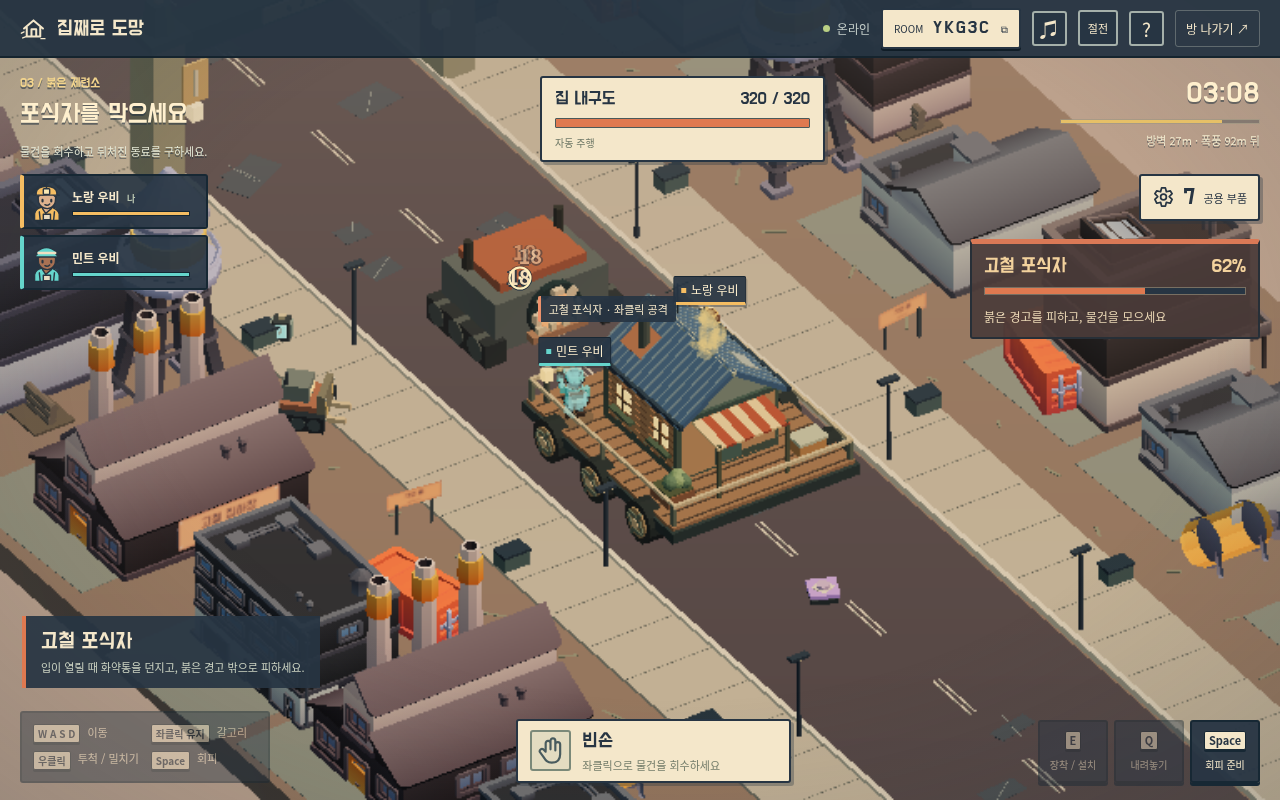
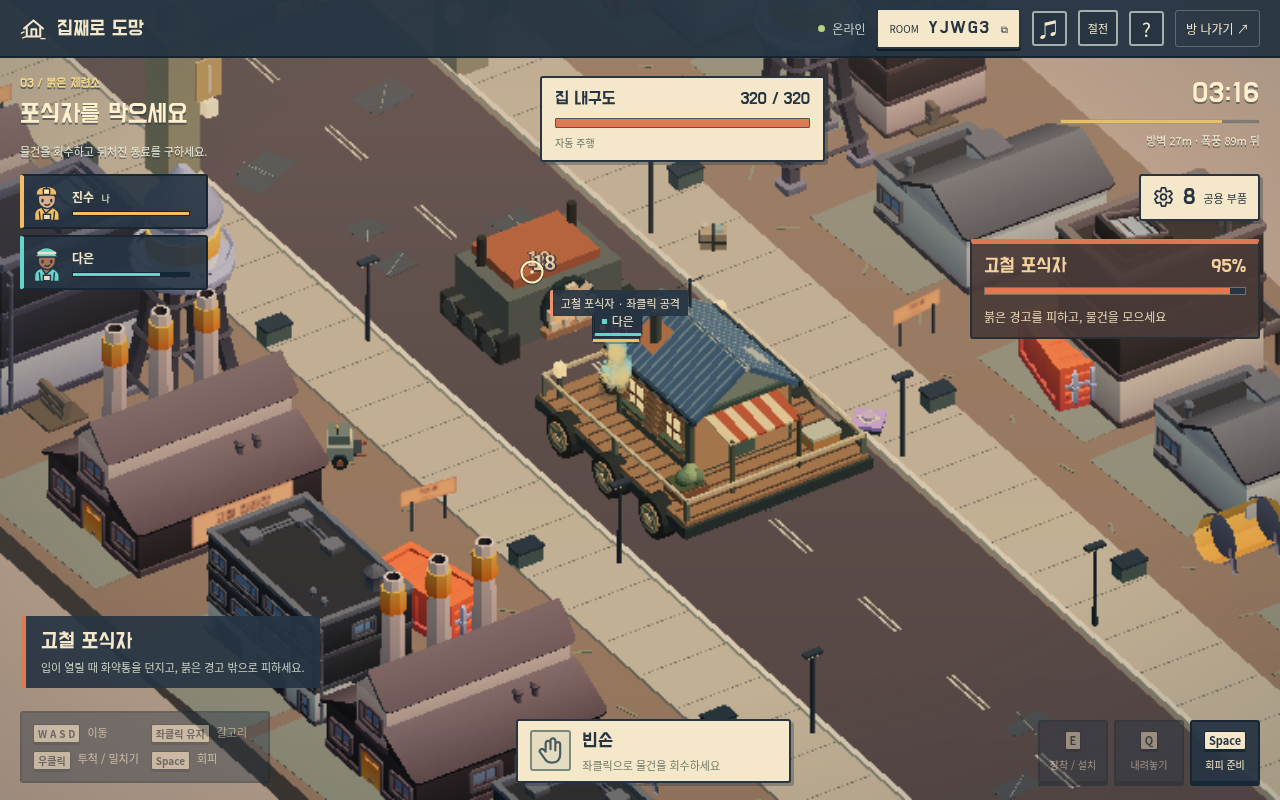
Finish target feedback and physical ambience; make cutaways economical

diff --git a/scripts/review.ts b/scripts/review.ts
@@ -170,10 +170,11 @@ try{
   filters.push(merged.map((_,i)=>'[v'+i+']'+(audio?'[a'+i+']':'')).join('')+'concat=n='+merged.length+':v=1:a='+(audio?1:0)+'[v]'+(audio?'[a]':''));
   execFileSync(ffmpeg,['-y','-i',full,'-filter_complex',filters.join(';'),'-map','[v]',...(audio?['-map','[a]']:[]),'-c:v','libx264','-preset','fast','-crf','23','-pix_fmt','yuv420p',...(audio?['-c:a','aac','-b:a','96k']:[]),'-movflags','+faststart',target],{stdio:'pipe',timeout:300000});
   execFileSync(ffmpeg,['-v','error','-i',target,'-f','null','-'],{stdio:'pipe',timeout:180000});check('최종 영상 전체 디코딩',true);
+  const movie=JSON.parse(execFileSync('ffprobe',['-v','error','-select_streams','v:0','-show_entries','stream=width,height,r_frame_rate','-of','json',target],{encoding:'utf8'})).streams[0] as {width:number;height:number;r_frame_rate:string};check('영상이 실제 전장 크기 1280×800으로 녹화됨',movie.width===1280&&movie.height===800);
   let audioPeakDb:number|null=null;
   if(audio){execFileSync(ffmpeg,['-v','error','-i',target,'-map','0:a:0','-f','null','-'],{stdio:'pipe',timeout:60000});check('실제 게임 음성 트랙 디코딩',true);const volume=spawnSync(ffmpeg,['-hide_banner','-i',target,'-vn','-af','volumedetect','-f','null','-'],{encoding:'utf8',timeout:60000});audioPeakDb=Number(volume.stderr.match(/max_volume: (-?\d+(?:\.\d+)?)/)?.[1]);check('녹음된 실제 소리가 무음이 아님',volume.status===0&&Number.isFinite(audioPeakDb)&&audioPeakDb> -50);}
   execFileSync(ffmpeg,['-y','-i',target,'-vf','fps=1/20,scale=480:-1,tile=3x3','-frames:v','1','artifacts/combat-sheet.jpg'],{stdio:'pipe',timeout:60000});
-  const metadata={title:'집째로 도망',version:'1.0.0',sourceCommit,repository:'sjsr-0401/game-heaven',fullRun:final.phase==='finished',realGameAudio:!!audio,audioPeakDb,sourceDurationSeconds:fullDuration,captureMethod:nativeCapture?'Chromium native screen recording':'Playwright video',recordingWallSeconds,checks,chapters,segments:merged,metrics,twoPlayerMetrics,summary:{phase:finalGame.phase,seconds:finalGame.clock,distance:finalGame.distance,bossDefeated:finalGame.bossDefeated,players:finalGame.crew.length,contributions:finalGame.crew.map(p=>({name:p.name,...p.stats}))},limitations:['클라우드 브라우저의 실제 키보드·마우스 조작입니다. 사람의 재미 평가와 실제 가정용 인터넷 지연 검증은 별도입니다.','하이라이트는 실제 속도이며 구간 사이를 편집했습니다. 원본 전체 영상도 같은 클라우드 산출물에 포함합니다.']};
+  const metadata={title:'집째로 도망',version:'1.0.0',sourceCommit,repository:'sjsr-0401/game-heaven',fullRun:final.phase==='finished',realGameAudio:!!audio,audioPeakDb,sourceDurationSeconds:fullDuration,video:movie,captureMethod:nativeCapture?'Chromium native screen recording':'Playwright video',recordingWallSeconds,checks,chapters,segments:merged,metrics,twoPlayerMetrics,summary:{phase:finalGame.phase,seconds:finalGame.clock,distance:finalGame.distance,bossDefeated:finalGame.bossDefeated,players:finalGame.crew.length,contributions:finalGame.crew.map(p=>({name:p.name,...p.stats}))},limitations:['클라우드 브라우저의 실제 키보드·마우스 조작입니다. 사람의 재미 평가와 실제 가정용 인터넷 지연 검증은 별도입니다.','하이라이트는 실제 속도이며 구간 사이를 편집했습니다. 원본 전체 영상도 같은 클라우드 산출물에 포함합니다.']};
   await writeFile('artifacts/verification.json',JSON.stringify(metadata,null,2));console.log('FINAL_REVIEW '+JSON.stringify(metadata));
 }catch(error){
   for(let i=0;i<Math.min(pages.length,4);i++)try{await pages[i].screenshot({path:'artifacts/failure-'+i+'.png'});}catch{}

diff --git a/scripts/profile-render.ts b/scripts/profile-render.ts
@@ -45,7 +45,7 @@ for(const trial of trials){
   if(trial.capture==='native'){const stopped=await send('Page.stopScreenRecording');const parts:Buffer[]=[];for(let i=0;i<200;i++){const chunk=await cdp.send('IO.read',{handle:stopped.stream,size:1024*1024});parts.push(Buffer.from(chunk.data,chunk.base64Encoded?'base64':'utf8'));if(chunk.eof)break;}await cdp.send('IO.close',{handle:stopped.stream});const bytes=Buffer.concat(parts);await writeFile('artifacts/profile/'+trial.name+'.webm',bytes);console.log('NATIVE_CAPTURE_BYTES '+bytes.length);}
   const elapsed=(after.frameMs-before.frameMs)/1000,fps=elapsed>0?(after.frames-before.frames)/elapsed:0;
   const hot=cpu.profile.nodes.map(n=>({name:n.callFrame.functionName||'(anonymous)',url:n.callFrame.url.split('/').at(-1),samples:n.hitCount??0})).sort((a,b)=>b.samples-a.samples).slice(0,10);
-  const result={trial:trial.name,status:'ok',size:[trial.width,trial.height],recording:trial.capture??trial.record,capturedFrames:captured.length,quality:trial.quality??'economy',fps:+fps.toFixed(1),drawCalls:after.drawCalls,triangles:after.triangles,scriptSeconds:perfAfter.ScriptDuration-perfBefore.ScriptDuration,taskSeconds:perfAfter.TaskDuration-perfBefore.TaskDuration,layoutSeconds:perfAfter.LayoutDuration-perfBefore.LayoutDuration,heapMB:+(perfAfter.JSHeapUsedSize/1024/1024).toFixed(1),gpu:gpu.gpu.devices.map(d=>d.deviceString),hot};
+  const result={trial:trial.name,status:'ok',size:[trial.width,trial.height],recording:trial.capture??trial.record,capturedFrames:captured.length,quality:trial.quality??'economy',fps:+fps.toFixed(1),drawCalls:after.drawCalls,triangles:after.triangles,antialias:await main.evaluate(()=>document.querySelector<HTMLCanvasElement>('.world canvas')!.getContext('webgl2')?.getContextAttributes()?.antialias),scriptSeconds:perfAfter.ScriptDuration-perfBefore.ScriptDuration,taskSeconds:perfAfter.TaskDuration-perfBefore.TaskDuration,layoutSeconds:perfAfter.LayoutDuration-perfBefore.LayoutDuration,heapMB:+(perfAfter.JSHeapUsedSize/1024/1024).toFixed(1),gpu:gpu.gpu.devices.map(d=>d.deviceString),hot};
   results.push(result);console.log('RENDER_TRIAL '+JSON.stringify(result));await main.screenshot({path:'artifacts/profile/'+trial.name+'.png'});
   await context.close();await friendContext.close();
  }catch(error){const result={trial:trial.name,status:'unsupported-or-failed',error:String(error)};results.push(result);console.log('RENDER_TRIAL '+JSON.stringify(result));}

diff --git a/src/modes/escape/scene.ts b/src/modes/escape/scene.ts
@@ -292,7 +292,7 @@ export class EscapeScene {
   private raycaster=new T.Raycaster();private plane=new T.Plane(new T.Vector3(0,1,0),-.4);private vector=new T.Vector3();
   private ash:T.InstancedMesh;private dummy=new T.Object3D();private width=1;private height=1;
   constructor(private container:HTMLElement,private showcase=false) {
-    this.renderer=new T.WebGLRenderer({antialias:false,alpha:false,powerPreference:'high-performance'});
+    this.renderer=new T.WebGLRenderer({antialias:this.quality!=='economy'&&!this.helper,alpha:false,powerPreference:'high-performance'});
     this.canvas=this.renderer.domElement;this.canvas.setAttribute('aria-label','집째로 도망 3D 전장');this.canvas.tabIndex=0;container.append(this.canvas);
     this.renderer.setPixelRatio(this.quality==='economy'?.6:Math.min(devicePixelRatio,this.quality==='high'?1.5:1));this.renderer.shadowMap.enabled=this.quality==='high';this.renderer.shadowMap.type=T.PCFShadowMap;this.renderer.shadowMap.autoUpdate=false;
     this.renderer.outputColorSpace=T.SRGBColorSpace;this.renderer.toneMapping=T.ACESFilmicToneMapping;this.renderer.toneMappingExposure=1.02;
@@ -519,7 +519,7 @@ export class EscapeScene {
       }
       this.raycaster.far=Infinity;
     }
-    for(const object of occluders){const paint=object.material as T.MeshLambertMaterial,target=blocked.has(object)?.18:1;paint.opacity+=(target-paint.opacity)*(1-Math.exp(-dt*(target<paint.opacity?18:6)));paint.depthWrite=paint.opacity>.98;}
+    for(const object of occluders){const paint=object.material as T.MeshLambertMaterial,target=blocked.has(object)?0:1;paint.opacity+=(target-paint.opacity)*(1-Math.exp(-dt*(target<paint.opacity?18:6)));if(paint.opacity>.985)paint.opacity=1;object.visible=paint.opacity>.015;const fading=paint.opacity<1;if(paint.transparent!==fading){paint.transparent=fading;paint.needsUpdate=true;}paint.depthWrite=!fading;}
     this.light.position.set(-14,30,this.viewZ-12);this.light.target.position.set(0,0,this.viewZ+3);
     this.aimRing.visible=!!own&&s?.phase==='travel';this.aimRing.position.set(this.aim.x,s&&this.hovered?.type!=='enemy'&&this.hovered?.type!=='gate'&&onDeck(this.aim,s.house)?1.69:.09,this.aim.z);(this.aimRing.material as T.MeshBasicMaterial).color.set(this.hovered?.color??'#fff0b2');
     this.trajectory.visible=!!own?.carry&&s?.phase==='travel';if(this.trajectory.visible&&own){

diff --git a/src/modes/escape/view.ts b/src/modes/escape/view.ts
@@ -64,13 +64,13 @@ export class EscapeView implements ClientMode {
     const reticle=this.context.element.querySelector<HTMLElement>('.aim-reticle')!,rect=this.scene.canvas.getBoundingClientRect();
     reticle.hidden=false;reticle.style.left=(this.pointer.x-rect.left)+'px';reticle.style.top=(this.pointer.y-rect.top)+'px';
     const target=this.scene.aimHint(),hint=this.context.element.querySelector<HTMLElement>('.target-hint')!,own=this.state?.crew.find(p=>p.id===this.context.playerId);
-    hint.hidden=!target||this.state?.phase!=='travel'||!!own?.carry;
-    if(!hint.hidden&&target){hint.textContent=target.label;hint.style.left=Math.min(rect.width-205,Math.max(10,this.pointer.x-rect.left+18))+'px';hint.style.top=Math.min(rect.height-126,Math.max(72,this.pointer.y-rect.top+18))+'px';hint.style.borderColor=target.color;}
+    hint.hidden=!target||this.state?.phase!=='travel'||!!own?.carry||!!(own&&this.state&&own.downUntil>this.state.clock);
+    if(!hint.hidden&&target){const range=12+(this.state?.upgrades.reel??0)*3+(target.type==='gate'?3.6:0),outside=!!own&&dist(own,this.mouse)>range;hint.textContent=target.label+(outside?' · 사거리 밖':'');hint.classList.toggle('outside',outside);hint.style.left=Math.max(10,Math.min(rect.width-285,this.pointer.x-rect.left+18))+'px';hint.style.top=Math.min(rect.height-126,Math.max(72,this.pointer.y-rect.top+18))+'px';hint.style.borderColor=outside?'#9b9785':target.color;}
 
   }
   private hook():void {if(!this.state||this.state.phase!=='travel'){this.pressed=false;return;}this.updateAim();this.context.command({kind:'hook',...this.mouse});this.nextHook=performance.now()+520;}
   private motion():{x:number;z:number} {
-    if(document.querySelector('dialog[open]')||!this.state||this.state.phase==='won'||this.state.phase==='lost')return{x:0,z:0};
+    if(document.querySelector('dialog[open]')||!this.state||this.state.phase!=='travel'||(this.state.crew.find(p=>p.id===this.context.playerId)?.downUntil??0)>this.state.clock)return{x:0,z:0};
     const horizontal=Number(this.keys.has('d')||this.keys.has('arrowright'))-Number(this.keys.has('a')||this.keys.has('arrowleft'));
     const vertical=Number(this.keys.has('w')||this.keys.has('arrowup'))-Number(this.keys.has('s')||this.keys.has('arrowdown'));
     const length=Math.max(1,Math.hypot(horizontal,vertical));

diff --git a/src/modes/escape/world-art.ts b/src/modes/escape/world-art.ts
@@ -46,7 +46,7 @@ export function loadWorldArt():Promise<void>{
 }
 export function scenery(name:string,x:number,z:number,size:number,rotation=0,tint='#ffffff'):T.Mesh|null{
  const geo=models.get(name);if(!geo)return null;
- const paint=material.clone();paint.userData.shared=false;paint.transparent=true;paint.color.set(tint);const mesh=new T.Mesh(geo,paint);mesh.position.set(x,.02,z);mesh.scale.setScalar(size);mesh.rotation.y=rotation;mesh.castShadow=true;mesh.receiveShadow=true;return mesh;
+ const paint=material.clone();paint.userData.shared=false;paint.color.set(tint);const mesh=new T.Mesh(geo,paint);mesh.position.set(x,.02,z);mesh.scale.setScalar(size);mesh.rotation.y=rotation;mesh.castShadow=true;mesh.receiveShadow=true;return mesh;
 }
 const signs=new Map<string,T.MeshBasicMaterial>(),signPlane=new T.PlaneGeometry(1,1);
 signPlane.userData.shared=true;

diff --git a/src/core/audio.ts b/src/core/audio.ts
@@ -130,8 +130,6 @@ export function advanceEscapeAudio(s:EscapeState):void {
   }
  }
  const beat=Math.floor(s.clock/.65);if(beat===lastBeat)return;lastBeat=beat;if(s.phase==='won'||s.phase==='lost')return;
- const bass=[65.4,65.4,77.8,58.3][Math.floor(beat/8)%4];
- if(beat%2===0)pulse(bass,bass,.55,.008,'sine');
- if(s.phase==='camp'&&beat%2===0){const notes=[261.6,329.6,392,293.7];pulse(notes[Math.floor(beat/2)%4],notes[Math.floor(beat/2)%4],.45,.009,'sine');}
- if(beat%4===0)impact(.3,.01,s.biome==='canal'?1400:850,'lowpass');
+ if(s.phase==='travel'&&s.house.speed>0){const engine=43+s.house.speed*18;pulse(engine,engine*.985,.72,.004,'triangle');}
+ if(beat%8===0)impact(.9,s.biome==='canal'?.004:.006,s.biome==='canal'?1400:850,'lowpass');
 }

diff --git a/src/modes/escape/game.css b/src/modes/escape/game.css
@@ -25,3 +25,5 @@
 .target-hint{position:absolute;pointer-events:none;padding:5px 8px;color:#f4e7ca;background:#273543ed;border-left:3px solid #e6bf6a;border-radius:2px;font-size:11px;white-space:nowrap;z-index:8}
 
 .name-tag.protected{border-top:2px solid #f4e7ca;box-shadow:0 0 0 1px #f4e7ca77}
+
+.target-hint{max-width:min(275px,calc(100vw - 20px));white-space:normal;line-height:1.5}.target-hint.outside{color:#c5c3af;border-left-color:#9b9785}

diff --git a/docs/screenshots.md b/docs/screenshots.md
@@ -1,8 +1,8 @@
 # 실제 실행 캡처
 
-[이 영상 실행](https://github.com/sjsr-0401/game-heaven/actions/runs/38866444959)의 캡처입니다. 검토 소스는 `5e3ccff`이며, 실제 서버·브라우저·키보드·마우스로 진행했습니다. 영상은 실제 속도이며 2인 원정은 보스 처치와 탈출까지 완료했습니다.
+[이 영상 실행](https://github.com/sjsr-0401/game-heaven/actions/runs/38868286848)의 캡처입니다. 검토 소스는 `e584cb3`이며, 실제 서버·브라우저·키보드·마우스로 진행했습니다. 영상은 실제 속도이며 2인 원정은 보스 처치와 탈출까지 완료했습니다.
 
-절전 그래픽으로 녹화했습니다. 2인 전장 평균 17fps, 4인 평균 15fps였습니다. 검토용 자동 조작이며 사람의 재미 평가나 실제 가정용 인터넷 검증을 대신하지 않습니다.
+절전 그래픽으로 녹화했습니다. 2인 전장 평균 12fps, 4인 평균 8fps였습니다. 검토용 자동 조작이며 사람의 재미 평가나 실제 가정용 인터넷 검증을 대신하지 않습니다.
 
 ## 네 명이 함께
 
@@ -16,7 +16,7 @@
 
 ## 투척의 연속 화면
 
-0.167초 간격으로 녹화에서 추출했습니다. 좌우 순서로 읽습니다.
+0.167초 간격으로 녹화에서 추출했습니다. 윗줄부터 왼쪽에서 오른쪽으로 읽습니다.
 
 ![회수와 투척의 연속 화면](screenshots/action-strip.jpg)
 

diff --git a/docs/visual-review-2026-10-16.md b/docs/visual-review-2026-10-16.md
@@ -29,3 +29,5 @@
 - 다음 단계는 친구들과 첫 플레이를 관찰하고, 설명 없이 행동을 이해하는지와 지루한 구간·불편한 조작을 기록하는 것입니다.
 
 추가 검토에서는 일반 명중·회피·장착에 반복되던 금색 원형 효과를 줄였습니다. 목재 장애물은 나무 소리와 파편으로, 물건 회수는 별도 확인음으로 구분합니다. 보호 중에 인물 전체를 깜빡여 없애는 표현도 없애고 이름표에 표시합니다.
+
+화면 기준 이동 검사를 추가하면서 좌우 입력과 스테레오 방향이 뒤집힌 오류를 수정했습니다. 높은 길가 건물이 적·물체·동료를 가리면 해당 건물만 잠시 옅어집니다. 반복되는 임시 배경 선율도 덜고, 주행 중 엔진과 작은 바람 소리로 정리했습니다.
